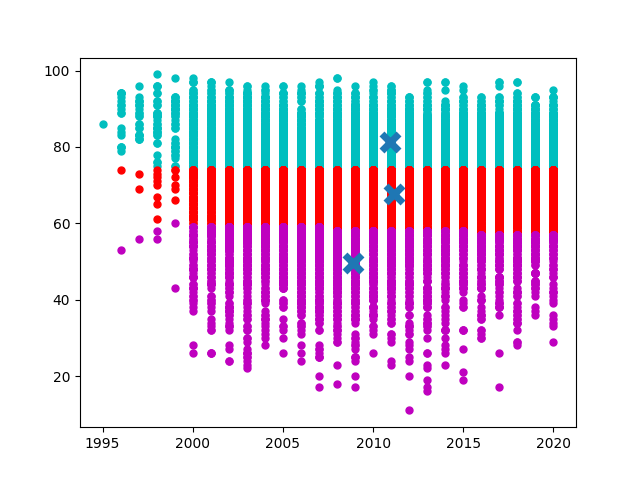
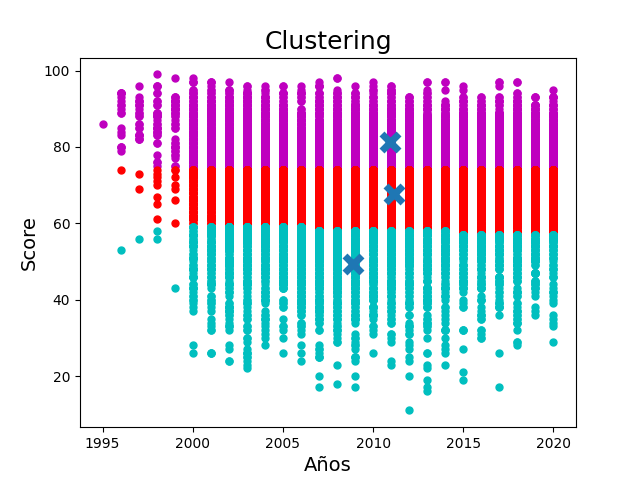
Estas son todas las practicas de mineria

diff --git a/Practica_9/Practica_9.py b/Practica_9/Practica_9.py
@@ -27,5 +27,8 @@ for i in range(len(X)):
     plt.plot(X[i][0], X[i][1], colors[labels[i]], markersize=10)
 
 plt.scatter(centroids[:,0], centroids[:,1], marker = 'x', s=150, linewidths=5, zorder=10)
+plt.xlabel("Años", fontsize=14)
+plt.ylabel("Score", fontsize=14)
+plt.title("Clustering", fontsize=18)
 plt.savefig('/Users/Armando/Desktop/CodigoPython/Practica_9/clustering.png')
 plt.show()
